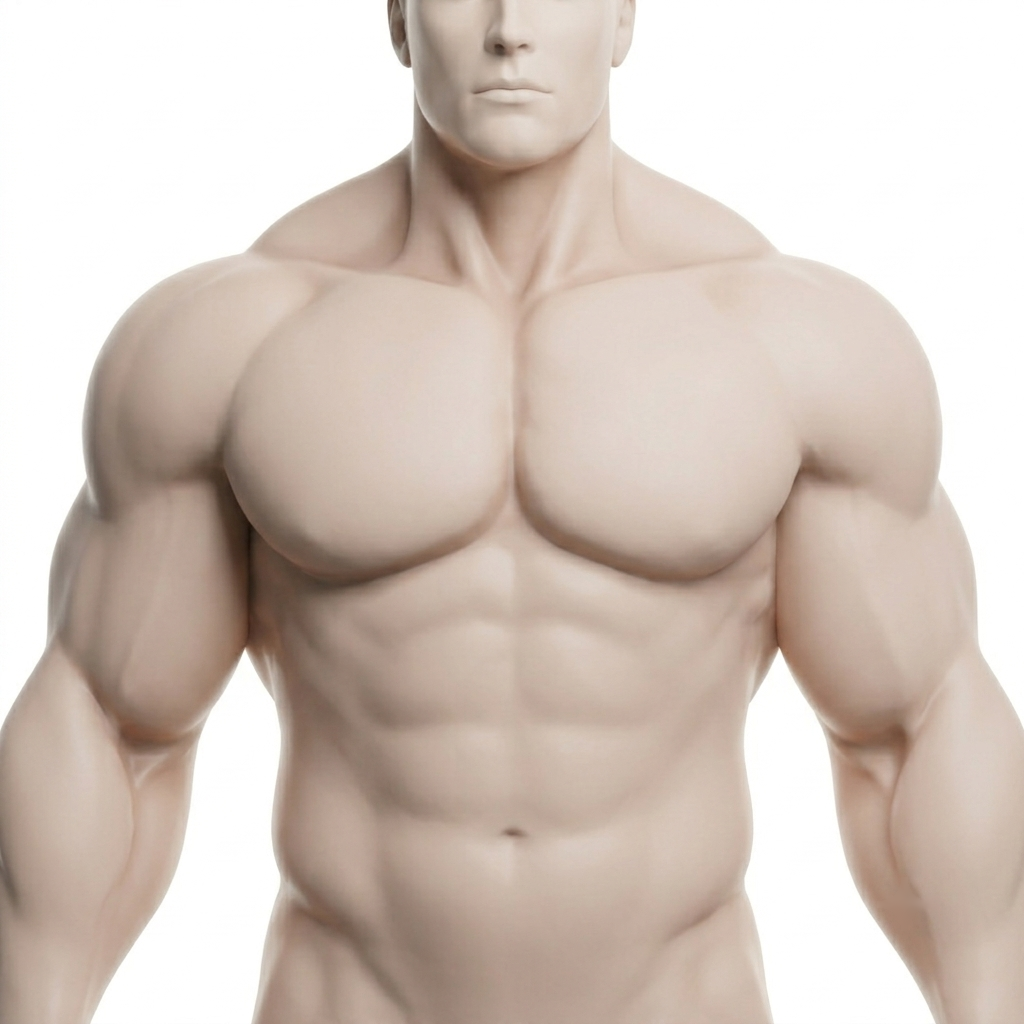
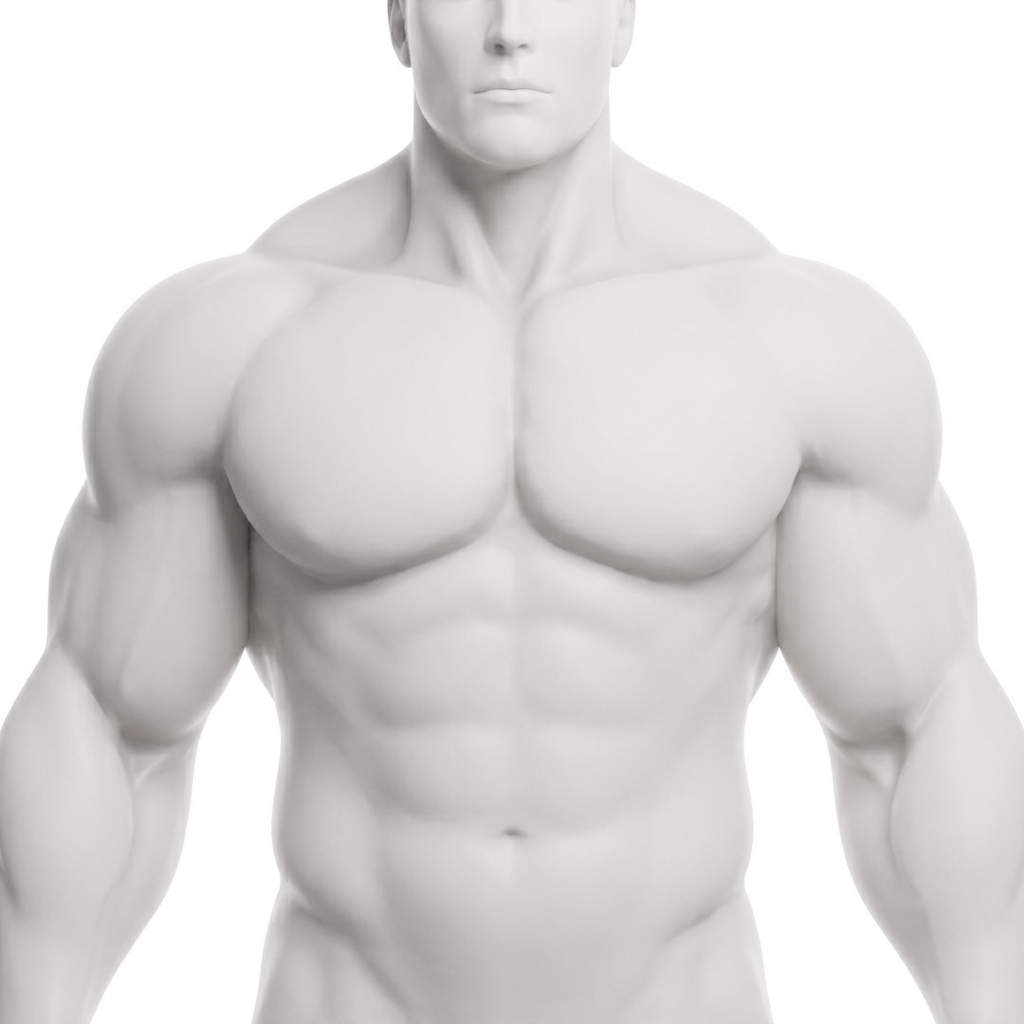
근육 그림: 최종 전부 색 뺀 판(3번) · 살색 판 따로 저장
Claude-Session: https://claude.ai/code/session_01BoBwgsWhq9LWGdXHzThg1i

diff --git a/문서/작업일지.md b/문서/작업일지.md
@@ -144,3 +144,4 @@
 - 10-10 홍겸 님: 04 대각은 900164a 판(좌우로만 넓힌 첫 판)으로 확정 · 02 후면은 원본으로 롤백
 - 10-10 홍겸 님: 13 · 14 ✦ 지움 · 등 08 · 09 · 10 울퉁불퉁 줄임(중간 크기 굴곡만 75% 줄이고 깊은 큰 경계 골은 덜 줄임) → 최종/
 - 10-10 홍겸 님: 등 울퉁불퉁 줄이기 취소(08 · 09 · 10 원본 그대로) · 살색이 선정적으로 보일 수 있어 색 빼기 → 시안 3가지(색빼기.py) 보여 드리고 고르시게
+- 10-10 홍겸 님: 색 3번(채도 12% · 감마 0.6) 확정 → 최종/ 전부(15장 + 반전 8장) 색 뺀 판 · 색 빼기 전 판은 최종_살색/ 에 저장

diff --git a/문서/자료/근육그림/최종_살색/설명.md b/문서/자료/근육그림/최종_살색/설명.md
@@ -1,4 +1,4 @@
-# 최종 — 앱에 쓸 그림 (색 뺀 판 · 10-10 홍겸 님 3번)
+# 최종_살색 — 색 빼기 전 판 (살색 그대로)
 
 - 색: 색빼기.py (채도 12% · 감마 0.6 — 거의 흰색 석고상, 깊은 그늘은 덜 밝아져 경계 남음)
 - 색 빼기 전 같은 그림: ../최종_살색/ · 손대지 않은 원본: ../최종원본/
